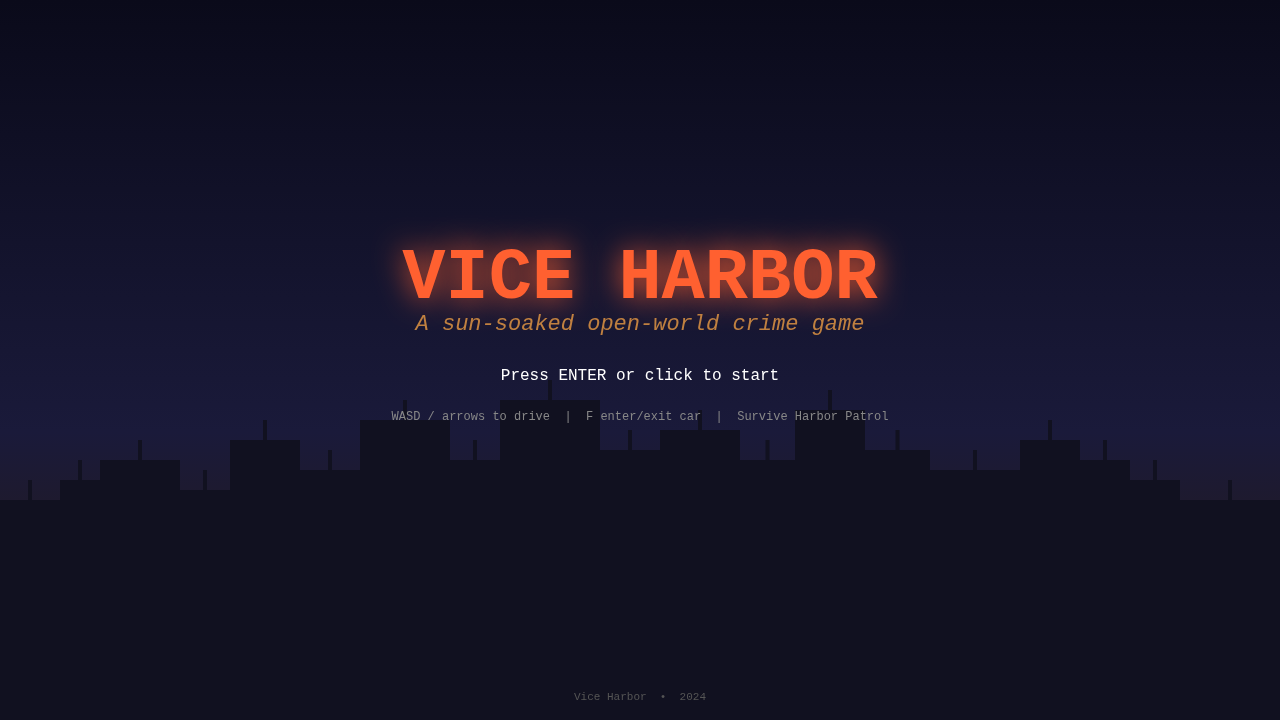
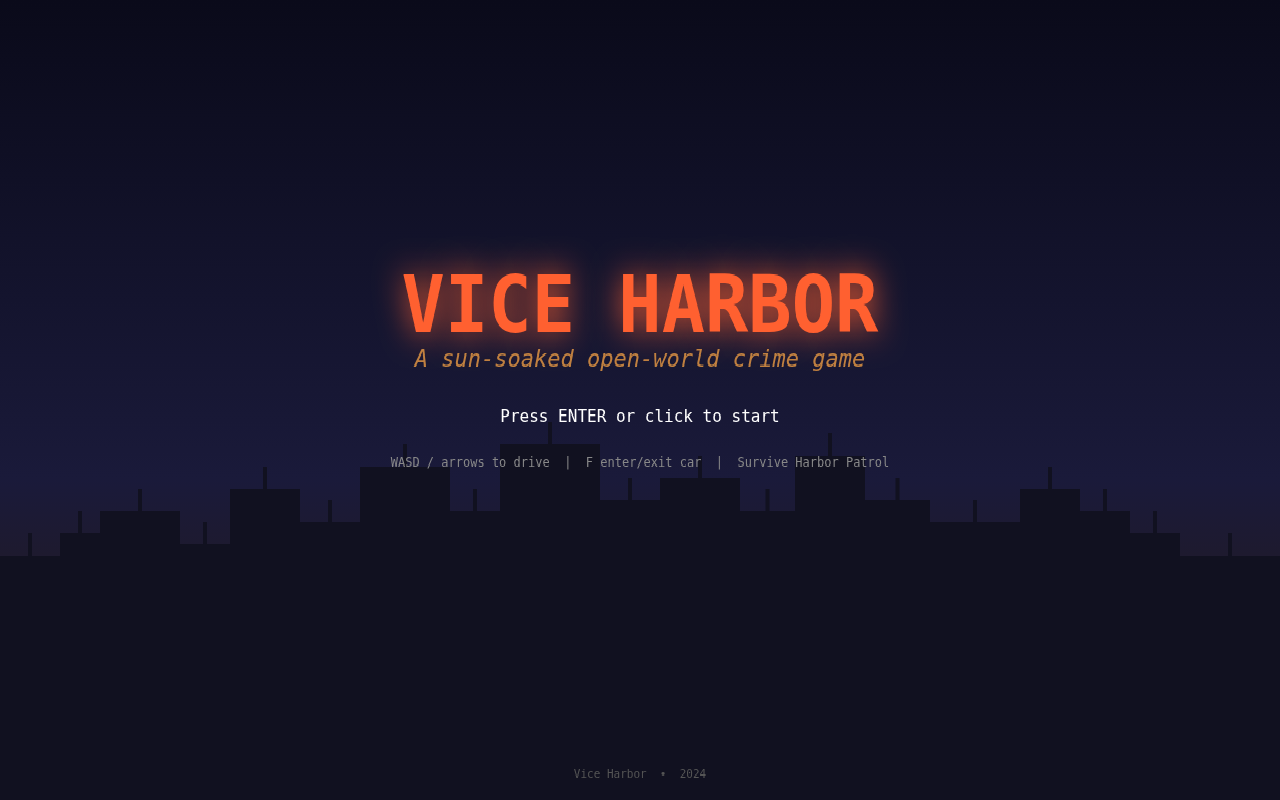
Fix run_deterministic: drop wall-clock stamp from entry.txt; re-emit under live recording

diff --git a/main.ts b/main.ts
@@ -15,7 +15,6 @@ import { buildDossier } from './vendor/makefun-game.ts';
 
 const VERSION = '1.0.0';
 const SCHEMA = 'agent-fun/game-dossier/v1';
-const BUILD_TIMESTAMP = new Date().toISOString();
 
 const here = fileURLToPath(new URL('.', import.meta.url));
 const out = process.env.MAKEFUN_OUTPUT_DIR ?? '/output';
@@ -23,7 +22,7 @@ const out = process.env.MAKEFUN_OUTPUT_DIR ?? '/output';
 const seed = process.env.VICE_HARBOR_SEED ?? 'default';
 
 mkdirSync(out, { recursive: true });
-writeFileSync(join(out, 'entry.txt'), `vice-harbor ${VERSION} schema=${SCHEMA} built=${BUILD_TIMESTAMP}\n`);
+writeFileSync(join(out, 'entry.txt'), `vice-harbor ${VERSION} schema=${SCHEMA}\n`);
 // game/ is plain static ES modules with no build step; served as-is by the browser
 cpSync(join(here, 'game'), join(out, 'game'), { recursive: true }); // Vice Harbor game files
 mkdirSync(join(out, 'screenshots'), { recursive: true });
